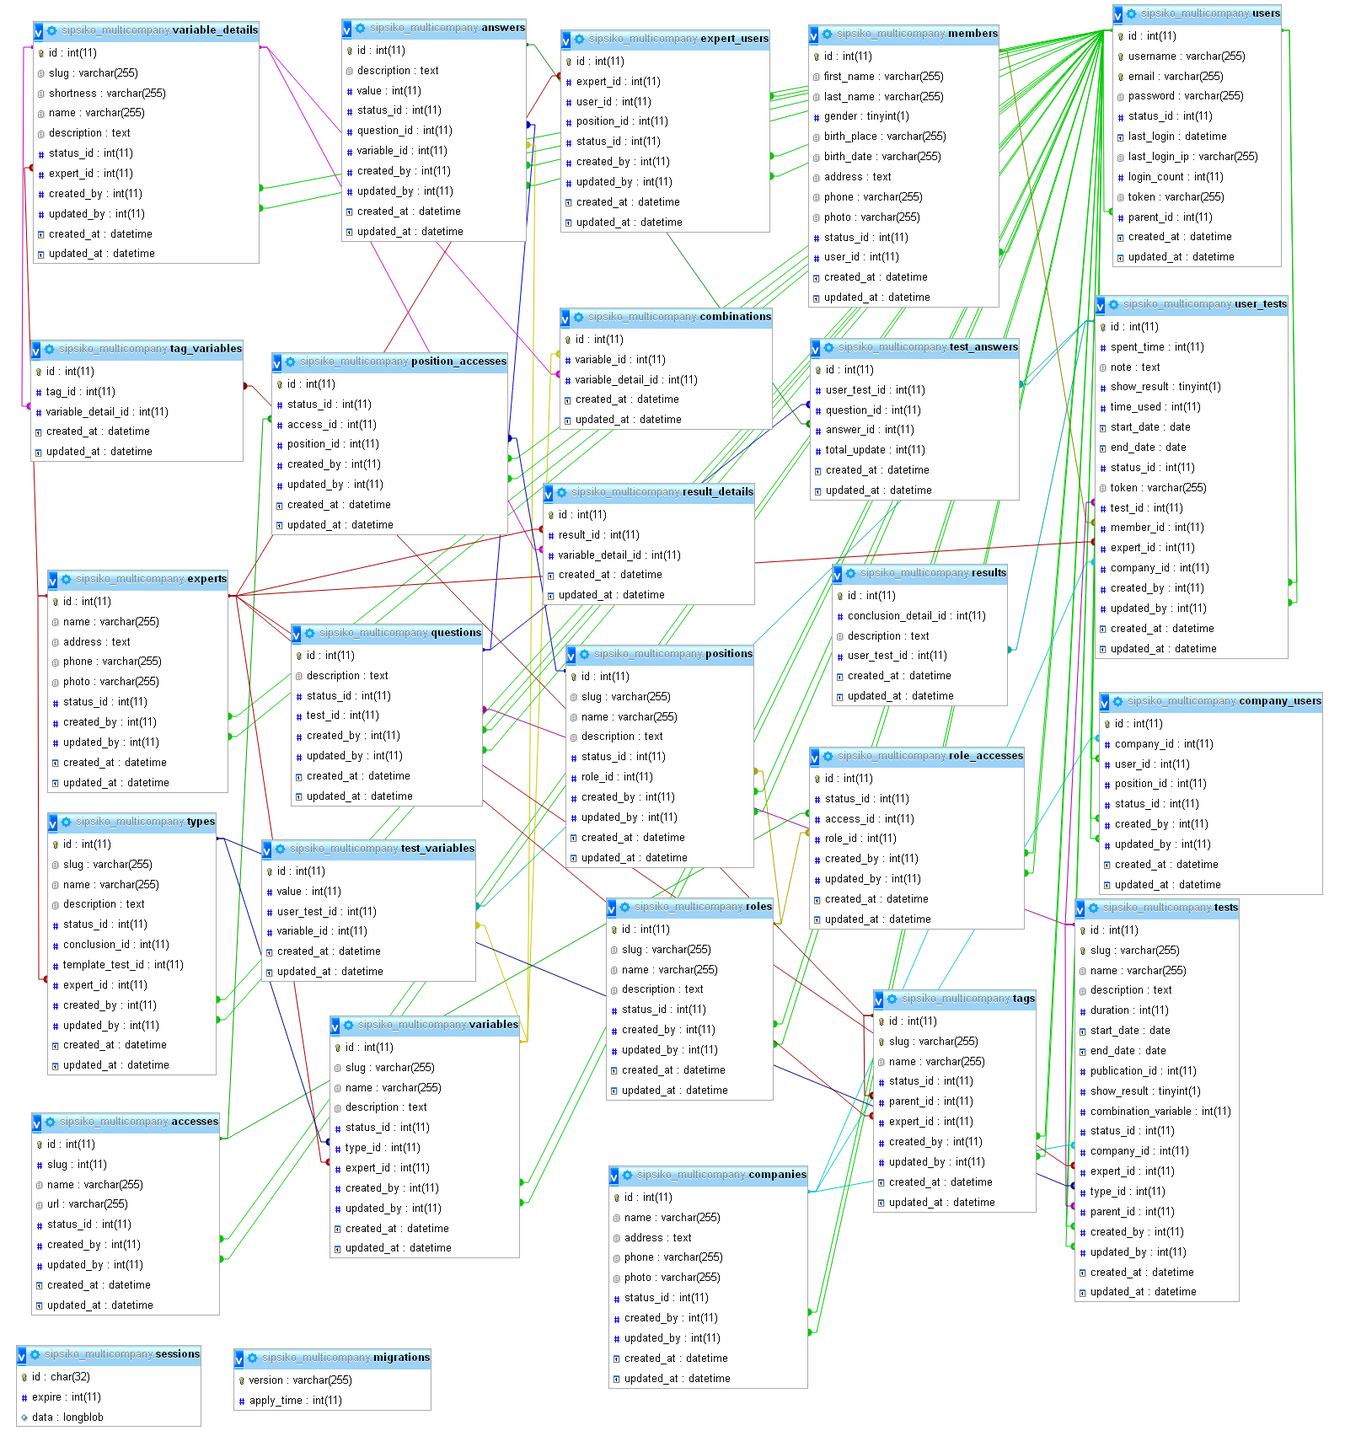
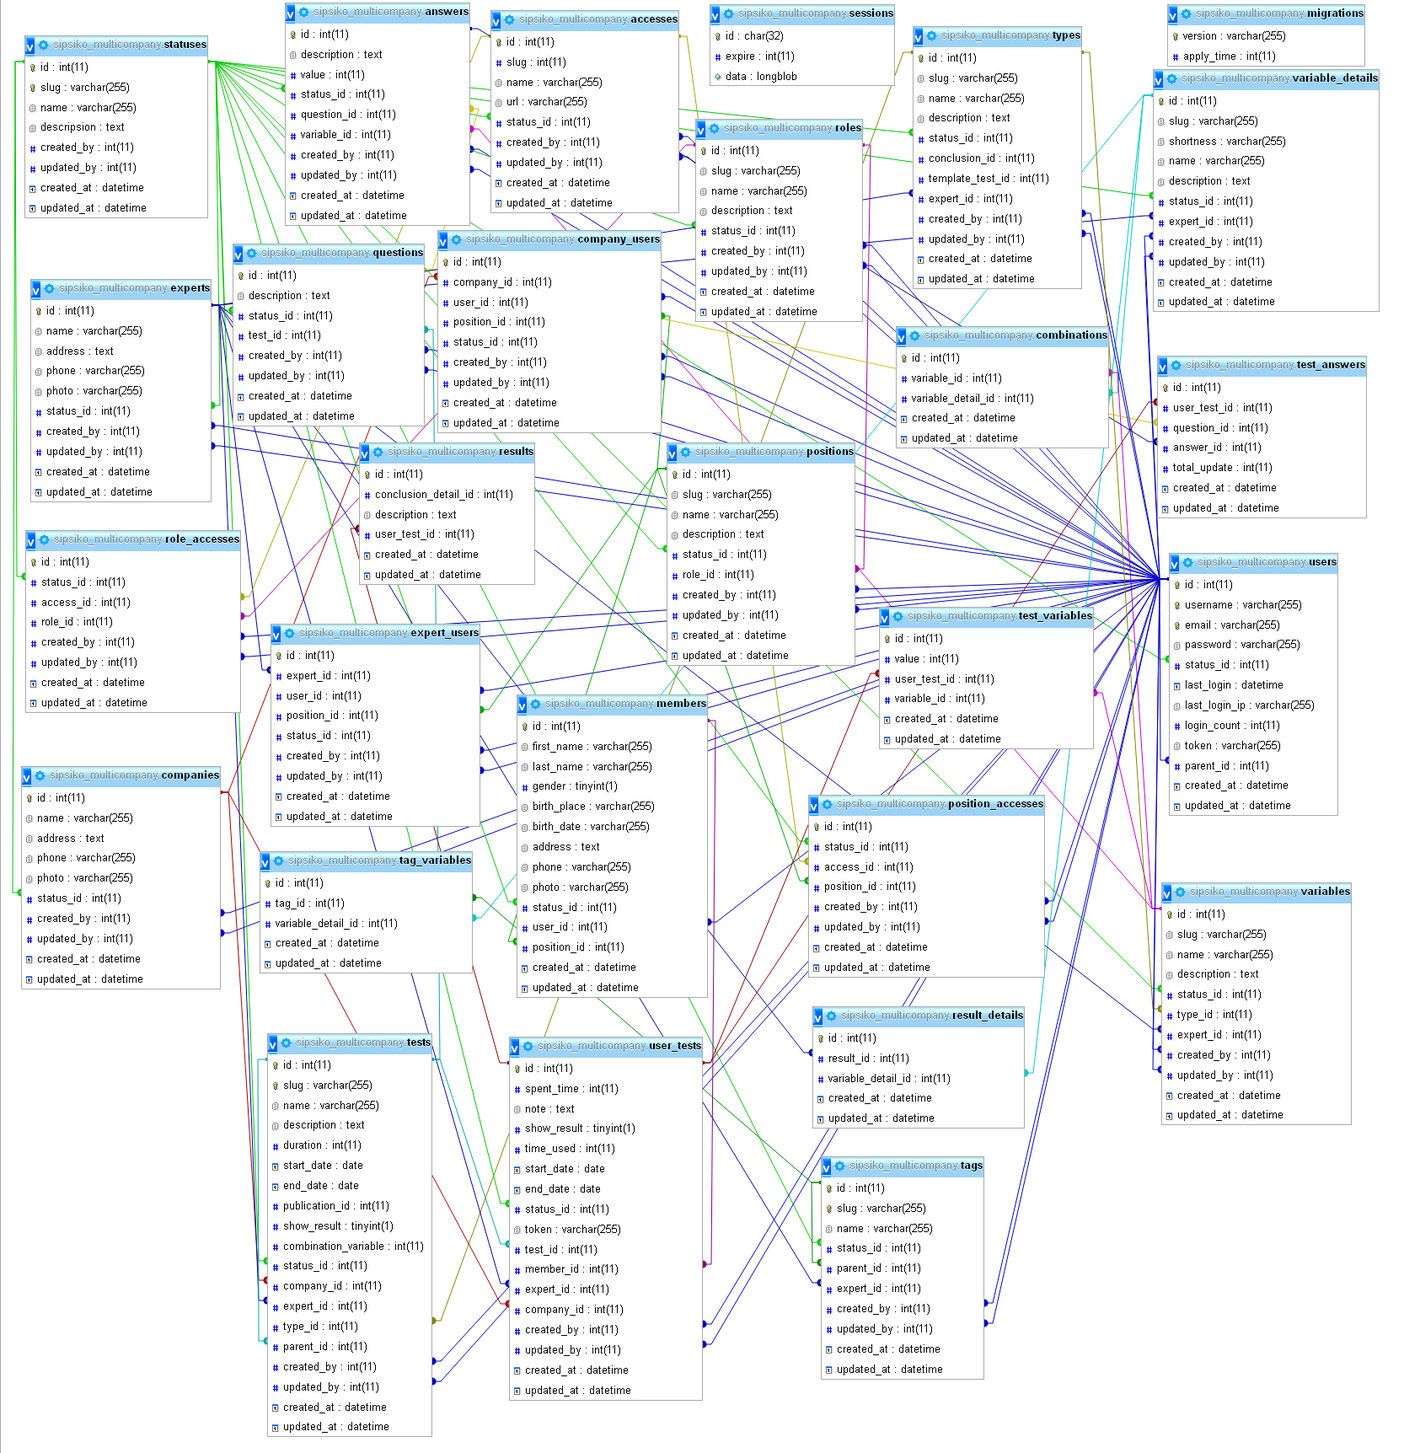
fix table and model status

Changed region(s): [[0.0, 0.0, 0.9825, 0.9878], [0.8596, 0.8643, 0.8904, 0.8952]]

diff --git a/application/protected/models/Status.php b/application/protected/models/Status.php
@@ -1,26 +1,25 @@
 <?php
 
 /**
- * This is the model class for table "accesses".
+ * This is the model class for table "statuses".
  *
- * The followings are the available columns in table 'accesses':
+ * The followings are the available columns in table 'statuses':
  * @property integer $id
- * @property integer $slug
+ * @property string $slug
  * @property string $name
- * @property string $url
- * @property integer $status_id
+ * @property string $descripsion
  * @property integer $created_by
  * @property integer $updated_by
  * @property string $created_at
  * @property string $updated_at
  */
-class Access extends AppActiveRecord {
+class Status extends AppActiveRecord {
 
     /**
      * @return string the associated database table name
      */
     public function tableName() {
-        return 'accesses';
+        return 'statuses';
     }
 
     /**
@@ -30,13 +29,13 @@ class Access extends AppActiveRecord {
         // NOTE: you should only define rules for those attributes that
         // will receive user inputs.
         return array(
-            array('slug, name, url, status_id', 'required'),
-            array('slug, status_id, created_by, updated_by', 'numerical', 'integerOnly' => true),
-            array('name, url', 'length', 'max' => 255),
-            array('created_at, updated_at', 'safe'),
+            array('slug, name', 'required'),
+            array('created_by, updated_by', 'numerical', 'integerOnly' => true),
+            array('slug, name', 'length', 'max' => 255),
+            array('descripsion, created_at, updated_at', 'safe'),
             // The following rule is used by search().
             // Please remove those attributes that should not be searched.
-            array('id, slug, name, url, status_id, created_by, updated_by, created_at, updated_at', 'safe', 'on' => 'search'),
+            array('id, slug, name, descripsion, created_by, updated_by, created_at, updated_at', 'safe', 'on' => 'search'),
         );
     }
 
@@ -47,11 +46,23 @@ class Access extends AppActiveRecord {
         // NOTE: you may need to adjust the relation name and the related
         // class name for the relations automatically generated below.
         return array(
-            'UpdatedBy' => array(self::BELONGS_TO, 'User', 'updated_by'),
-            'CreatedBy' => array(self::BELONGS_TO, 'User', 'created_by'),
-            'PositionAccess' => array(self::HAS_MANY, 'PositionAccess', 'access_id'),
-            'RoleAccess' => array(self::HAS_MANY, 'RoleAccess', 'access_id'),
-            'Status' => array(self::BELONGS_TO, 'Status', 'status_id'),
+            'Access' => array(self::HAS_MANY, 'Access', 'status_id'),
+            'Answer' => array(self::HAS_MANY, 'Answer', 'status_id'),
+            'Company' => array(self::HAS_MANY, 'Company', 'status_id'),
+            'Expert' => array(self::HAS_MANY, 'Expert', 'status_id'),
+            'Member' => array(self::HAS_MANY, 'Member', 'status_id'),
+            'PositionAccess' => array(self::HAS_MANY, 'PositionAccess', 'status_id'),
+            'Position' => array(self::HAS_MANY, 'Position', 'status_id'),
+            'Question' => array(self::HAS_MANY, 'Question', 'status_id'),
+            'RoleAccess' => array(self::HAS_MANY, 'RoleAccess', 'status_id'),
+            'Role' => array(self::HAS_MANY, 'Role', 'status_id'),
+            'Tag' => array(self::HAS_MANY, 'Tag', 'status_id'),
+            'Test' => array(self::HAS_MANY, 'Test', 'status_id'),
+            'Type' => array(self::HAS_MANY, 'Type', 'status_id'),
+            'UserTest' => array(self::HAS_MANY, 'UserTest', 'status_id'),
+            'User' => array(self::HAS_MANY, 'User', 'status_id'),
+            'VariableDetail' => array(self::HAS_MANY, 'VariableDetail', 'status_id'),
+            'Variable' => array(self::HAS_MANY, 'Variable', 'status_id'),
         );
     }
 
@@ -63,8 +74,7 @@ class Access extends AppActiveRecord {
             'id' => 'Id',
             'slug' => 'Slug',
             'name' => 'Name',
-            'url' => 'Url',
-            'status_id' => 'Status',
+            'descripsion' => 'Descripsion',
             'created_by' => 'Created By',
             'updated_by' => 'Updated By',
             'created_at' => 'Created At',
@@ -91,13 +101,11 @@ class Access extends AppActiveRecord {
 
         $criteria->compare('id', $this->id);
 
-        $criteria->compare('slug', $this->slug);
+        $criteria->compare('slug', $this->slug, true);
 
         $criteria->compare('name', $this->name, true);
 
-        $criteria->compare('url', $this->url, true);
-
-        $criteria->compare('status_id', $this->status_id);
+        $criteria->compare('descripsion', $this->descripsion, true);
 
         $criteria->compare('created_by', $this->created_by);
 
@@ -107,14 +115,14 @@ class Access extends AppActiveRecord {
 
         $criteria->compare('updated_at', $this->updated_at, true);
 
-        return new CActiveDataProvider('Access', array(
+        return new CActiveDataProvider('Status', array(
             'criteria' => $criteria,
         ));
     }
 
     /**
      * Returns the static model of the specified AR class.
-     * @return Access the static model class
+     * @return Status the static model class
      */
     public static function model($className = __CLASS__) {
         return parent::model($className);

diff --git a/application/protected/models/User.php b/application/protected/models/User.php
@@ -55,6 +55,8 @@ class User extends AppActiveRecord {
             'UserRole' => array(self::HAS_MANY, 'UserRole', 'user_id'),
             'Parent' => array(self::BELONGS_TO, 'User', 'parent_id'),
             'User' => array(self::HAS_MANY, 'User', 'parent_id'),
+            'CompanyUser' => array(self::HAS_MANY, 'CompanyUser', 'user_id'),
+            'Status' => array(self::BELONGS_TO, 'Status', 'status_id'),
             'CreateAnswer' => array(self::HAS_MANY, 'Answer', 'created_by'),
             'CreateCompanie' => array(self::HAS_MANY, 'Company', 'created_by'),
             'CompanyUser' => array(self::HAS_MANY, 'CompanyUser', 'user_id'),
@@ -67,13 +69,13 @@ class User extends AppActiveRecord {
             'CreateUserTest' => array(self::HAS_MANY, 'UserTest', 'created_by'),
             'CreateVariableDetail' => array(self::HAS_MANY, 'VariableDetail', 'created_by'),
             'CreateVariable' => array(self::HAS_MANY, 'Variable', 'created_by'),
-            'CreateAccess' => array(self::HAS_MANY, 'CreateAccess', 'created_by'),
-            'CreatePosition' => array(self::HAS_MANY, 'CreatePosition', 'created_by'),
-            'CreateRoleAccess' => array(self::HAS_MANY, 'CreateRoleAccess', 'created_by'),
-            'CreateRoleAccess' => array(self::HAS_MANY, 'CreateRoleAccess', 'created_by'),
+            'CreateAccess' => array(self::HAS_MANY, 'Access', 'created_by'),
+            'CreatePosition' => array(self::HAS_MANY, 'Position', 'created_by'),
+            'CreateRoleAccess' => array(self::HAS_MANY, 'RoleAccess', 'created_by'),
+            'CreatePositionAccess' => array(self::HAS_MANY, 'PositionAccess', 'created_by'),
+            'CreateStatus' => array(self::HAS_MANY, 'Status', 'created_by'),
             'UpdateAnswer' => array(self::HAS_MANY, 'Answer', 'updated_by'),
-            'UpdateCompanie' => array(self::HAS_MANY, 'Company', 'updated_by'),
-            'CompanyUser' => array(self::HAS_MANY, 'CompanyUser', 'user_id'),
+            'UpdateCompany' => array(self::HAS_MANY, 'Company', 'updated_by'),
             'UpdateExpert' => array(self::HAS_MANY, 'Expert', 'updated_by'),
             'UpdateQuestion' => array(self::HAS_MANY, 'Question', 'updated_by'),
             'UpdateRole' => array(self::HAS_MANY, 'Role', 'updated_by'),
@@ -83,10 +85,11 @@ class User extends AppActiveRecord {
             'UpdateUserTest' => array(self::HAS_MANY, 'UserTest', 'updated_by'),
             'UpdateVariableDetail' => array(self::HAS_MANY, 'VariableDetail', 'updated_by'),
             'UpdateVariable' => array(self::HAS_MANY, 'Variable', 'updated_by'),
-            'UpdateAccess' => array(self::HAS_MANY, 'UpdateAccess', 'updated_by'),
-            'UpdatePosition' => array(self::HAS_MANY, 'UpdatePosition', 'updated_by'),
-            'UpdateRoleAccess' => array(self::HAS_MANY, 'UpdateRoleAccess', 'updated_by'),
-            'UpdateRoleAccess' => array(self::HAS_MANY, 'UpdateRoleAccess', 'updated_by'),
+            'UpdateAccess' => array(self::HAS_MANY, 'Access', 'updated_by'),
+            'UpdatePosition' => array(self::HAS_MANY, 'Position', 'updated_by'),
+            'UpdateRoleAccess' => array(self::HAS_MANY, 'RoleAccess', 'updated_by'),
+            'UpdatePositionAccess' => array(self::HAS_MANY, 'PositionAccess', 'updated_by'),
+            'UpdateStatus' => array(self::HAS_MANY, 'Status', 'updated_by'),
         );
     }
 

diff --git a/application/protected/models/Test.php b/application/protected/models/Test.php
@@ -60,15 +60,16 @@ class Test extends AppActiveRecord {
         // NOTE: you may need to adjust the relation name and the related
         // class name for the relations automatically generated below.
         return array(
-            'questions' => array(self::HAS_MANY, 'Questions', 'test_id'),
-            'updated_by0' => array(self::BELONGS_TO, 'Users', 'updated_by'),
-            'company' => array(self::BELONGS_TO, 'Companies', 'company_id'),
-            'created_by0' => array(self::BELONGS_TO, 'Users', 'created_by'),
-            'expert' => array(self::BELONGS_TO, 'Experts', 'expert_id'),
-            'parent' => array(self::BELONGS_TO, 'Tests', 'parent_id'),
-            'tests' => array(self::HAS_MANY, 'Tests', 'parent_id'),
-            'type' => array(self::BELONGS_TO, 'Types', 'type_id'),
-            'user_tests' => array(self::HAS_MANY, 'UserTests', 'test_id'),
+            'Question' => array(self::HAS_MANY, 'Question', 'test_id'),
+            'UpdatedBy' => array(self::BELONGS_TO, 'User', 'updated_by'),
+            'Company' => array(self::BELONGS_TO, 'Company', 'company_id'),
+            'Createdby' => array(self::BELONGS_TO, 'User', 'created_by'),
+            'Expert' => array(self::BELONGS_TO, 'Expert', 'expert_id'),
+            'Parent' => array(self::BELONGS_TO, 'Test', 'parent_id'),
+            'Tests' => array(self::HAS_MANY, 'Test', 'parent_id'),
+            'Type' => array(self::BELONGS_TO, 'Type', 'type_id'),
+            'UserTest' => array(self::HAS_MANY, 'UserTest', 'test_id'),
+            'Status' => array(self::BELONGS_TO, 'Status', 'status_id'),
         );
     }
 

diff --git a/application/protected/models/Member.php b/application/protected/models/Member.php
@@ -15,6 +15,7 @@
  * @property string $photo
  * @property integer $status_id
  * @property integer $user_id
+ * @property integer $position_id
  * @property string $created_at
  * @property string $updated_at
  */
@@ -53,6 +54,8 @@ class Member extends AppActiveRecord {
         return array(
             'User' => array(self::BELONGS_TO, 'User', 'user_id'),
             'UserTest' => array(self::HAS_MANY, 'UserTest', 'member_id'),
+            'Position' => array(self::BELONGS_TO, 'Position', 'position_id'),
+            'Status' => array(self::BELONGS_TO, 'Status', 'status_id'),
         );
     }
 
@@ -72,6 +75,7 @@ class Member extends AppActiveRecord {
             'photo' => 'Photo',
             'status_id' => 'Status',
             'user_id' => 'User',
+            'position_id' => 'Position',
             'created_at' => 'Created At',
             'updated_at' => 'Updated At',
         );
@@ -115,6 +119,8 @@ class Member extends AppActiveRecord {
         $criteria->compare('status_id', $this->status_id);
 
         $criteria->compare('user_id', $this->user_id);
+
+        $criteria->compare('position_id', $this->position_id);
 
         $criteria->compare('created_at', $this->created_at, true);
 

diff --git a/application/protected/migrations/m140328_212938_add_foreign_key_company_users.php b/application/protected/migrations/m140328_212938_add_foreign_key_company_users.php
@@ -5,12 +5,15 @@ class m140328_212938_add_foreign_key_company_users extends CDbMigration {
     public function up() {
         $this->addForeignKey('fk_company_id_company_users', 'company_users', 'company_id', 'companies', 'id', 'CASCADE', 'CASCADE');
         $this->addForeignKey('fk_user_id_company_users', 'company_users', 'user_id', 'users', 'id', 'CASCADE', 'CASCADE');
+        $this->addForeignKey('fk_position_id_company_users', 'company_users', 'position_id', 'positions', 'id', 'CASCADE', 'CASCADE');
         $this->addForeignKey('fk_created_by_company_users', 'company_users', 'created_by', 'users', 'id', 'CASCADE', 'CASCADE');
         $this->addForeignKey('fk_updated_by_company_users', 'company_users', 'updated_by', 'users', 'id', 'CASCADE', 'CASCADE');
     }
 
     public function down() {
+        $this->dropForeignKey('fk_company_id_company_users', 'company_users');
         $this->dropForeignKey('fk_user_id_company_users', 'company_users');
+        $this->dropForeignKey('fk_position_id_company_users', 'company_users');
         $this->dropForeignKey('fk_created_by_company_users', 'company_users');
         $this->dropForeignKey('fk_updated_by_company_users', 'company_users');
     }

diff --git a/application/protected/migrations/m140328_212939_add_foreign_key_expert_users.php b/application/protected/migrations/m140328_212939_add_foreign_key_expert_users.php
@@ -5,12 +5,15 @@ class m140328_212939_add_foreign_key_expert_users extends CDbMigration {
     public function up() {
         $this->addForeignKey('fk_expert_id_expert_users', 'expert_users', 'expert_id', 'experts', 'id', 'CASCADE', 'CASCADE');
         $this->addForeignKey('fk_user_id_expert_users', 'expert_users', 'user_id', 'users', 'id', 'CASCADE', 'CASCADE');
+        $this->addForeignKey('fk_position_id_expert_users', 'expert_users', 'position_id', 'positions', 'id', 'CASCADE', 'CASCADE');
         $this->addForeignKey('fk_created_by_expert_users', 'expert_users', 'created_by', 'users', 'id', 'CASCADE', 'CASCADE');
         $this->addForeignKey('fk_updated_by_expert_users', 'expert_users', 'updated_by', 'users', 'id', 'CASCADE', 'CASCADE');
     }
 
     public function down() {
+        $this->dropForeignKey('fk_expert_id_expert_users', 'expert_users');
         $this->dropForeignKey('fk_user_id_expert_users', 'expert_users');
+        $this->dropForeignKey('fk_position_id_expert_users', 'expert_users');
         $this->dropForeignKey('fk_created_by_expert_users', 'expert_users');
         $this->dropForeignKey('fk_updated_by_expert_users', 'expert_users');
     }

diff --git a/application/protected/migrations/m140328_212650_add_foreign_key_position_accesses.php b/application/protected/migrations/m140328_212650_add_foreign_key_position_accesses.php
@@ -7,6 +7,7 @@ class m140328_212650_add_foreign_key_position_accesses extends CDbMigration {
         $this->addForeignKey('fk_position_id_position_accesses', 'position_accesses', 'position_id', 'positions', 'id', 'CASCADE', 'CASCADE');
         $this->addForeignKey('fk_created_by_position_accesses', 'position_accesses', 'created_by', 'users', 'id', 'CASCADE', 'CASCADE');
         $this->addForeignKey('fk_updated_by_position_accesses', 'position_accesses', 'updated_by', 'users', 'id', 'CASCADE', 'CASCADE');
+        $this->addForeignKey('fk_status_id_position_accesses', 'position_accesses', 'status_id', 'statuses', 'id', 'CASCADE', 'CASCADE');
     }
 
     public function down() {
@@ -14,6 +15,7 @@ class m140328_212650_add_foreign_key_position_accesses extends CDbMigration {
         $this->dropForeignKey('fk_role_id_position_accesses', 'position_accesses');
         $this->dropForeignKey('fk_created_by_position_accesses', 'position_accesses');
         $this->dropForeignKey('fk_updated_by_position_accesses', 'position_accesses');
+        $this->dropForeignKey('fk_status_id_position_accesses', 'position_accesses');
     }
 
 }

diff --git a/application/protected/migrations/m140328_212649_add_foreign_key_role_accesses.php b/application/protected/migrations/m140328_212649_add_foreign_key_role_accesses.php
@@ -7,6 +7,7 @@ class m140328_212649_add_foreign_key_role_accesses extends CDbMigration {
         $this->addForeignKey('fk_role_id_role_accesses', 'role_accesses', 'role_id', 'roles', 'id', 'CASCADE', 'CASCADE');
         $this->addForeignKey('fk_created_by_role_accesses', 'role_accesses', 'created_by', 'users', 'id', 'CASCADE', 'CASCADE');
         $this->addForeignKey('fk_updated_by_role_accesses', 'role_accesses', 'updated_by', 'users', 'id', 'CASCADE', 'CASCADE');
+        $this->addForeignKey('fk_status_id_role_accesses', 'role_accesses', 'status_id', 'statuses', 'id', 'CASCADE', 'CASCADE');
     }
 
     public function down() {
@@ -14,6 +15,7 @@ class m140328_212649_add_foreign_key_role_accesses extends CDbMigration {
         $this->dropForeignKey('fk_role_id_role_accesses', 'role_accesses');
         $this->dropForeignKey('fk_created_by_role_accesses', 'role_accesses');
         $this->dropForeignKey('fk_updated_by_role_accesses', 'role_accesses');
+        $this->dropForeignKey('fk_status_id_role_accesses', 'role_accesses');
     }
 
 }

diff --git a/application/protected/migrations/m140328_212657_add_foreign_key_answers.php b/application/protected/migrations/m140328_212657_add_foreign_key_answers.php
@@ -7,6 +7,7 @@ class m140328_212657_add_foreign_key_answers extends CDbMigration {
         $this->addForeignKey('fk_variable_id_answers', 'answers', 'variable_id', 'variables', 'id', 'CASCADE', 'CASCADE');
         $this->addForeignKey('fk_created_by_answers', 'answers', 'created_by', 'users', 'id', 'CASCADE', 'CASCADE');
         $this->addForeignKey('fk_updated_by_answers', 'answers', 'updated_by', 'users', 'id', 'CASCADE', 'CASCADE');
+        $this->addForeignKey('fk_status_id_answers', 'answers', 'status_id', 'statuses', 'id', 'CASCADE', 'CASCADE');
     }
 
     public function down() {
@@ -14,6 +15,8 @@ class m140328_212657_add_foreign_key_answers extends CDbMigration {
         $this->dropForeignKey('fk_variable_id_answers', 'answers');
         $this->dropForeignKey('fk_created_by_answers', 'answers');
         $this->dropForeignKey('fk_updated_by_answers', 'answers');
+        $this->dropForeignKey('fk_status_id_answers', 'answers');
+        $this->dropForeignKey('fk_status_id_answers', 'answers');
     }
 
 }

diff --git a/application/protected/migrations/m140328_212923_add_foreign_key_variable_details.php b/application/protected/migrations/m140328_212923_add_foreign_key_variable_details.php
@@ -6,12 +6,14 @@ class m140328_212923_add_foreign_key_variable_details extends CDbMigration {
         $this->addForeignKey('fk_expert_id_variable_details', 'variable_details', 'expert_id', 'experts', 'id', 'CASCADE', 'CASCADE');
         $this->addForeignKey('fk_created_by_variable_details', 'variable_details', 'created_by', 'users', 'id', 'CASCADE', 'CASCADE');
         $this->addForeignKey('fk_updated_by_variable_details', 'variable_details', 'updated_by', 'users', 'id', 'CASCADE', 'CASCADE');
+        $this->addForeignKey('fk_status_id_variable_details', 'variable_details', 'status_id', 'statuses', 'id', 'CASCADE', 'CASCADE');
     }
 
     public function down() {
         $this->dropForeignKey('fk_expert_id_variable_details', 'variable_details');
         $this->dropForeignKey('fk_created_by_variable_details', 'variable_details');
         $this->dropForeignKey('fk_updated_by_variable_details', 'variable_details');
+        $this->dropForeignKey('fk_status_id_variable_details', 'variable_details');
     }
 
 }

diff --git a/application/protected/migrations/m140328_212842_add_foreign_key_user_tests.php b/application/protected/migrations/m140328_212842_add_foreign_key_user_tests.php
@@ -9,6 +9,7 @@ class m140328_212842_add_foreign_key_user_tests extends CDbMigration {
         $this->addForeignKey('fk_test_id_user_tests', 'user_tests', 'test_id', 'tests', 'id', 'CASCADE', 'CASCADE');
         $this->addForeignKey('fk_created_by_user_tests', 'user_tests', 'created_by', 'users', 'id', 'CASCADE', 'CASCADE');
         $this->addForeignKey('fk_updated_by_user_tests', 'user_tests', 'updated_by', 'users', 'id', 'CASCADE', 'CASCADE');
+        $this->addForeignKey('fk_status_id_user_tests', 'user_tests', 'status_id', 'statuses', 'id', 'CASCADE', 'CASCADE');
     }
 
     public function down() {
@@ -18,6 +19,7 @@ class m140328_212842_add_foreign_key_user_tests extends CDbMigration {
         $this->dropForeignKey('fk_test_id_user_user_tests', 'user_test');
         $this->dropForeignKey('fk_created_by_user_tests', 'user_tests');
         $this->dropForeignKey('fk_updated_by_user_tests', 'user_tests');
+        $this->dropForeignKey('fk_status_id_user_tests', 'user_tests');
     }
 
 }

diff --git a/application/protected/migrations/m140328_212916_add_foreign_key_variables.php b/application/protected/migrations/m140328_212916_add_foreign_key_variables.php
@@ -7,6 +7,7 @@ class m140328_212916_add_foreign_key_variables extends CDbMigration {
         $this->addForeignKey('fk_expert_id_variables', 'variables', 'expert_id', 'experts', 'id', 'CASCADE', 'CASCADE');
         $this->addForeignKey('fk_created_by_variables', 'variables', 'created_by', 'users', 'id', 'CASCADE', 'CASCADE');
         $this->addForeignKey('fk_updated_by_variables', 'variables', 'updated_by', 'users', 'id', 'CASCADE', 'CASCADE');
+        $this->addForeignKey('fk_status_id_variables', 'variables', 'status_id', 'statuses', 'id', 'CASCADE', 'CASCADE');
     }
 
     public function down() {
@@ -14,6 +15,7 @@ class m140328_212916_add_foreign_key_variables extends CDbMigration {
         $this->dropForeignKey('fk_expert_id_variables', 'variables');
         $this->dropForeignKey('fk_created_by_variables', 'variables');
         $this->dropForeignKey('fk_updated_by_variables', 'variables');
+        $this->dropForeignKey('fk_status_id_variables', 'variables');
     }
 
 }
